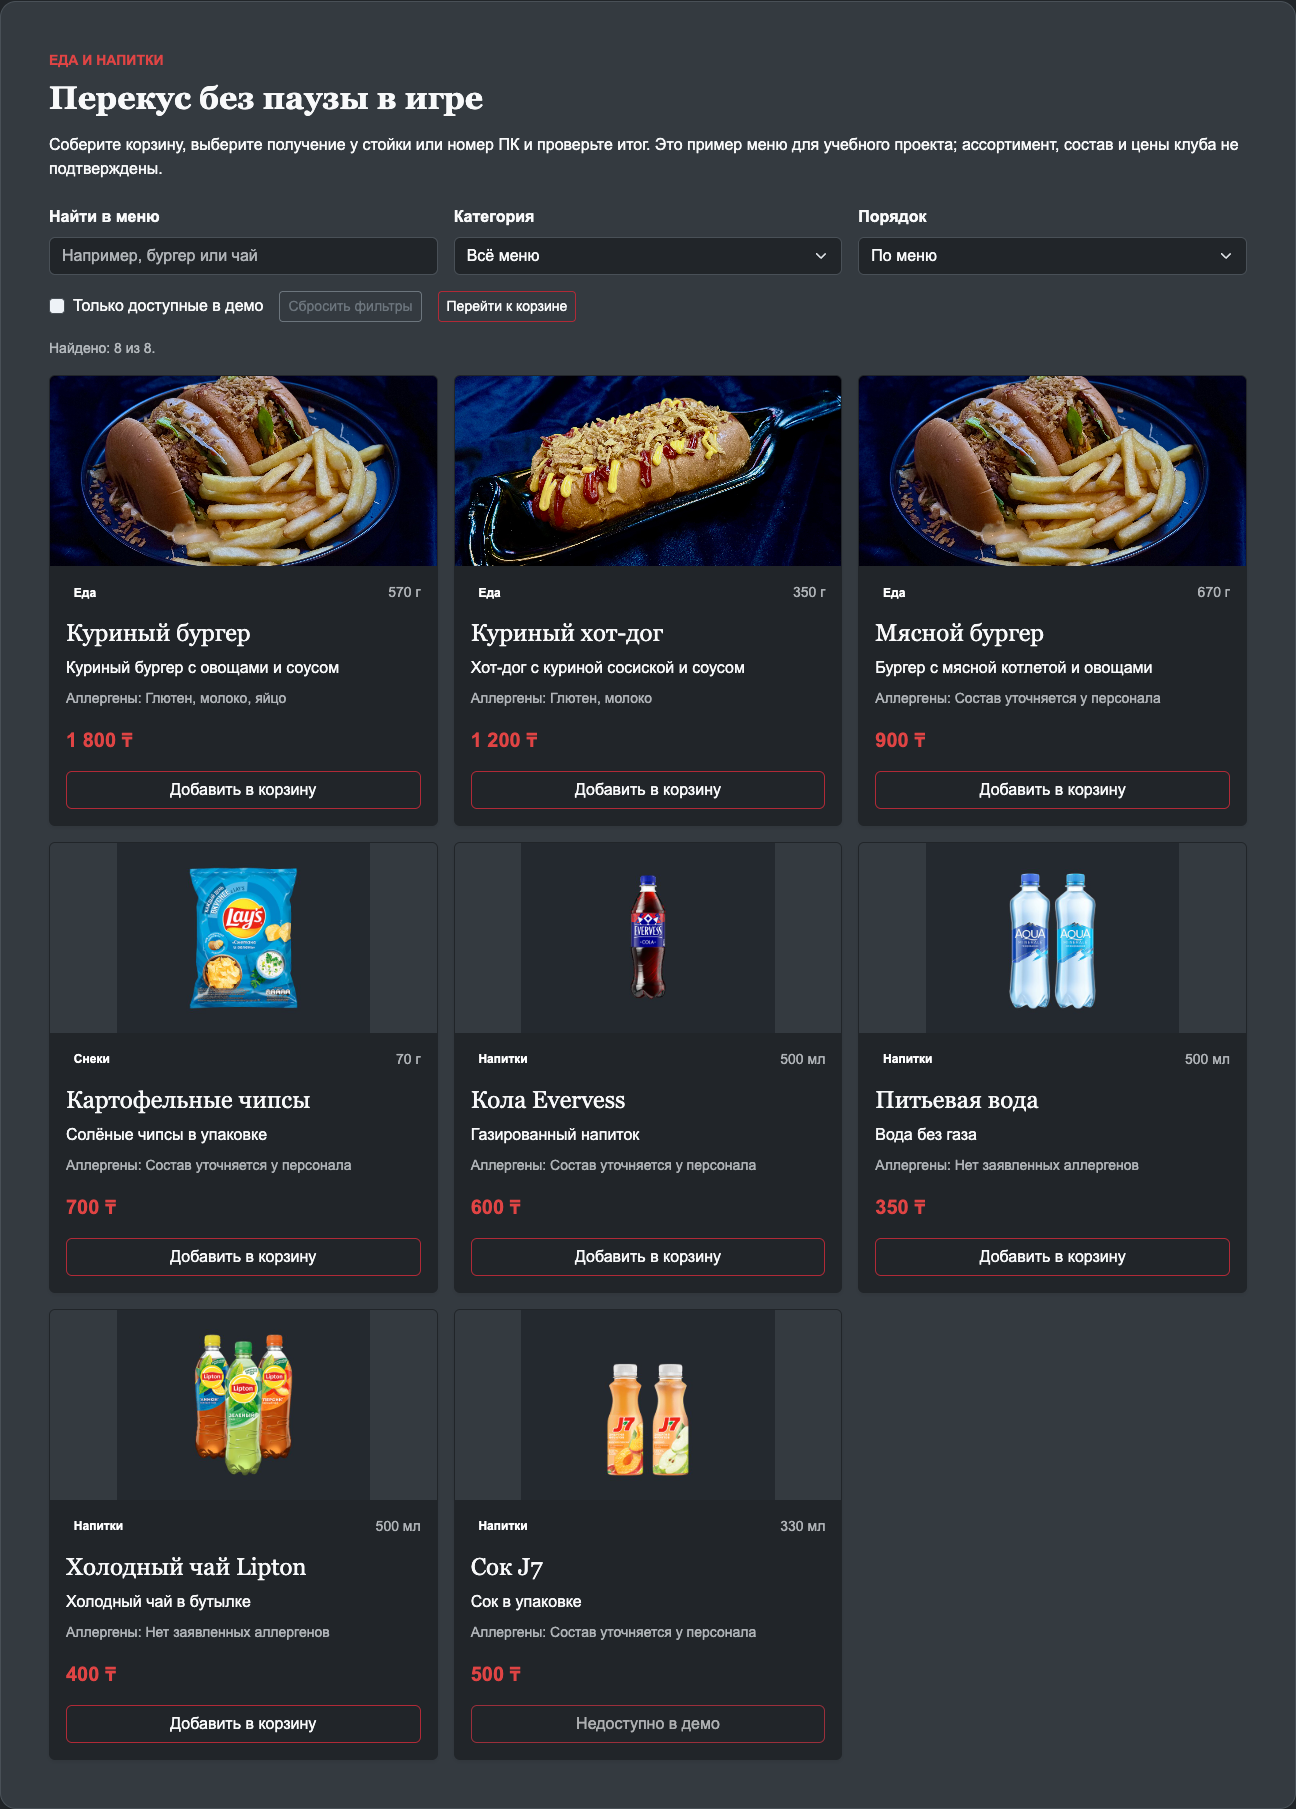
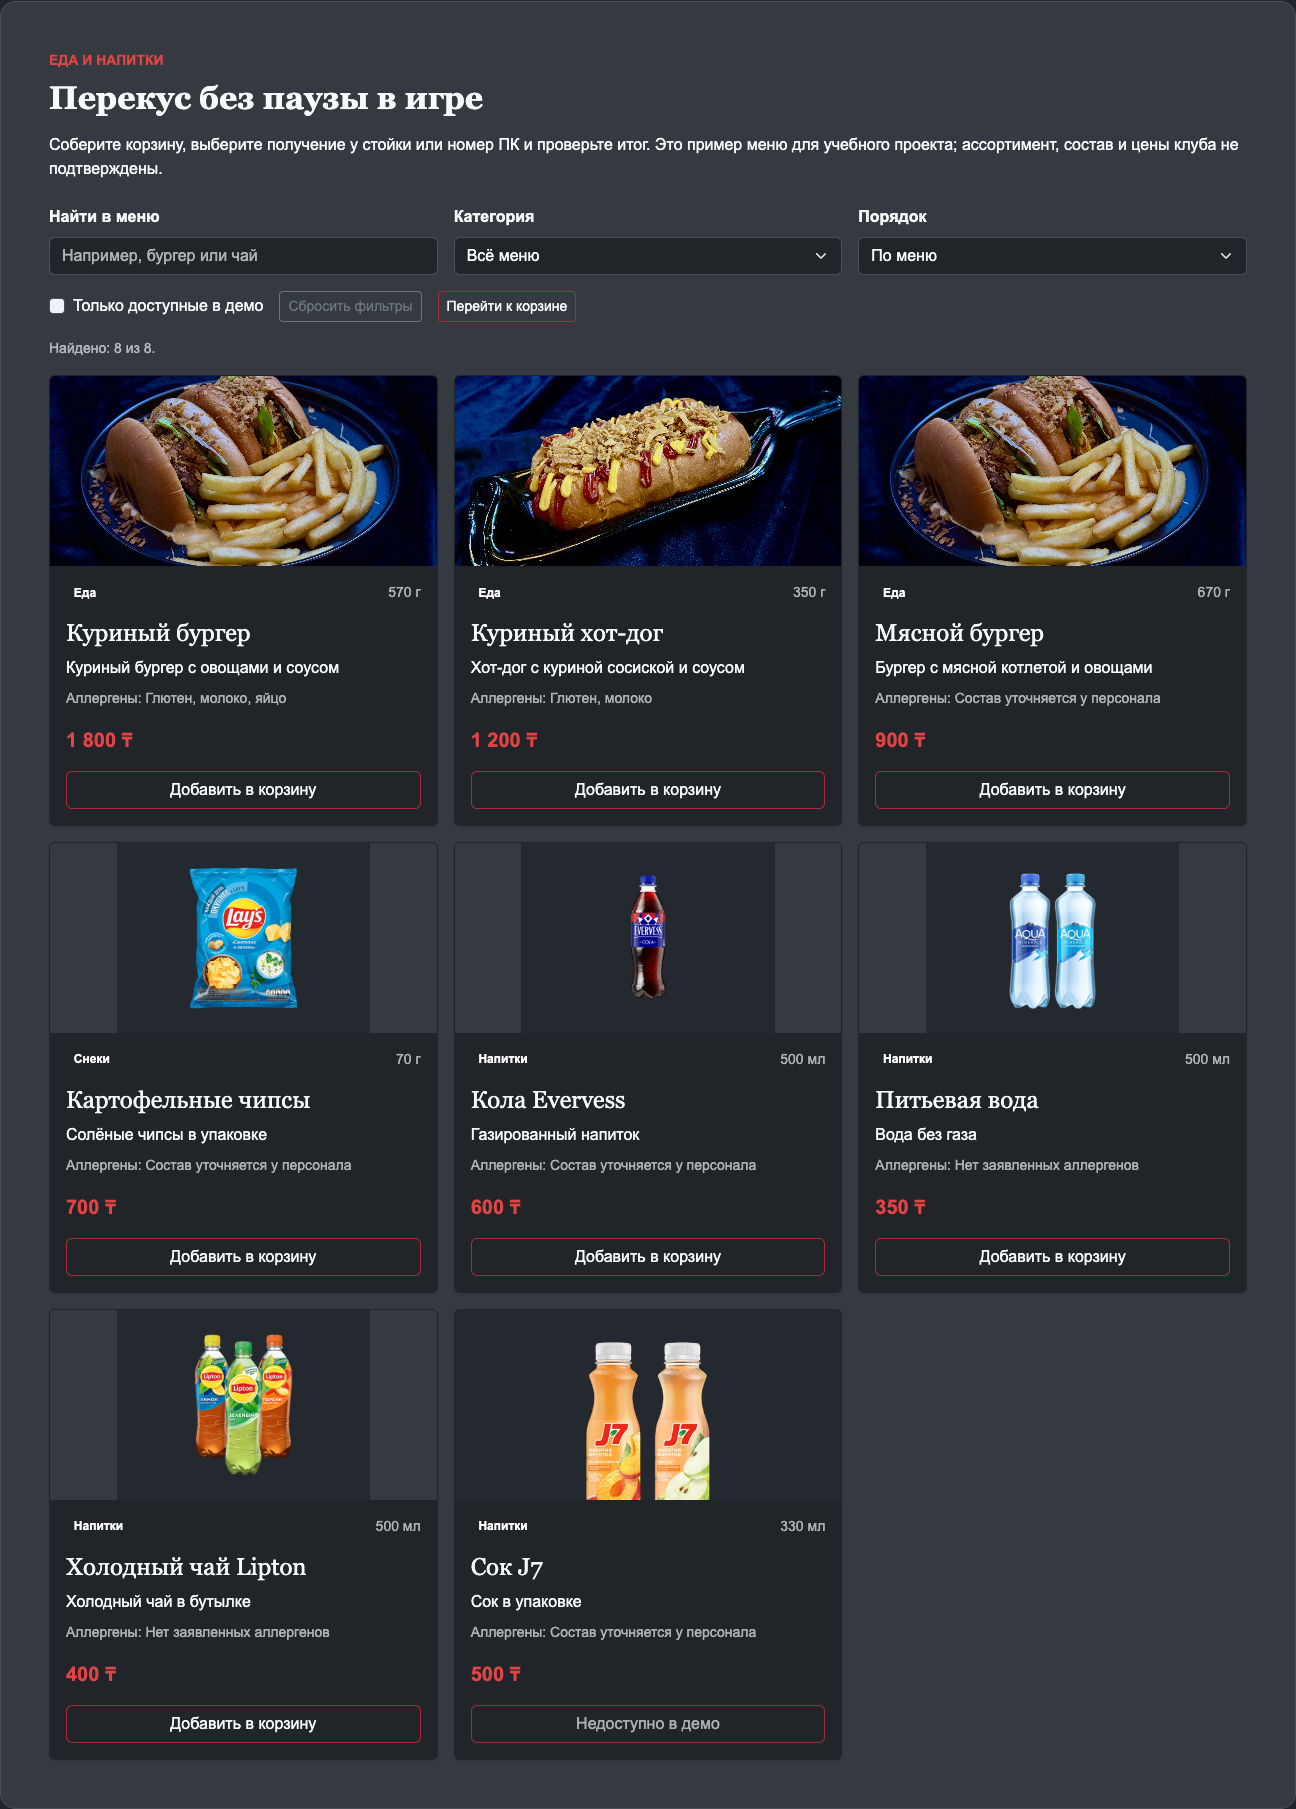
Fill juice photo across the product card

Changed region(s): [[0.4321, 0.743, 0.5556, 0.8358]]

diff --git a/js/food.js b/js/food.js
@@ -199,7 +199,7 @@
         const column = el('div', 'col-12 col-md-6 col-lg-4');
         const article = el('article', 'card h-100 shadow-sm');
         article.dataset.foodId = item.id;
-        const photo = el('img', `card-img-top w-100 bg-white ${item.category === 'food' ? 'object-fit-cover' : 'object-fit-contain'}`);
+        const photo = el('img', `card-img-top w-100 bg-white ${item.category === 'food' || item.id === 'cookie' ? 'object-fit-cover' : 'object-fit-contain'}`);
         photo.src = item.image;
         photo.alt = item.imageAlt;
         photo.height = 190;
